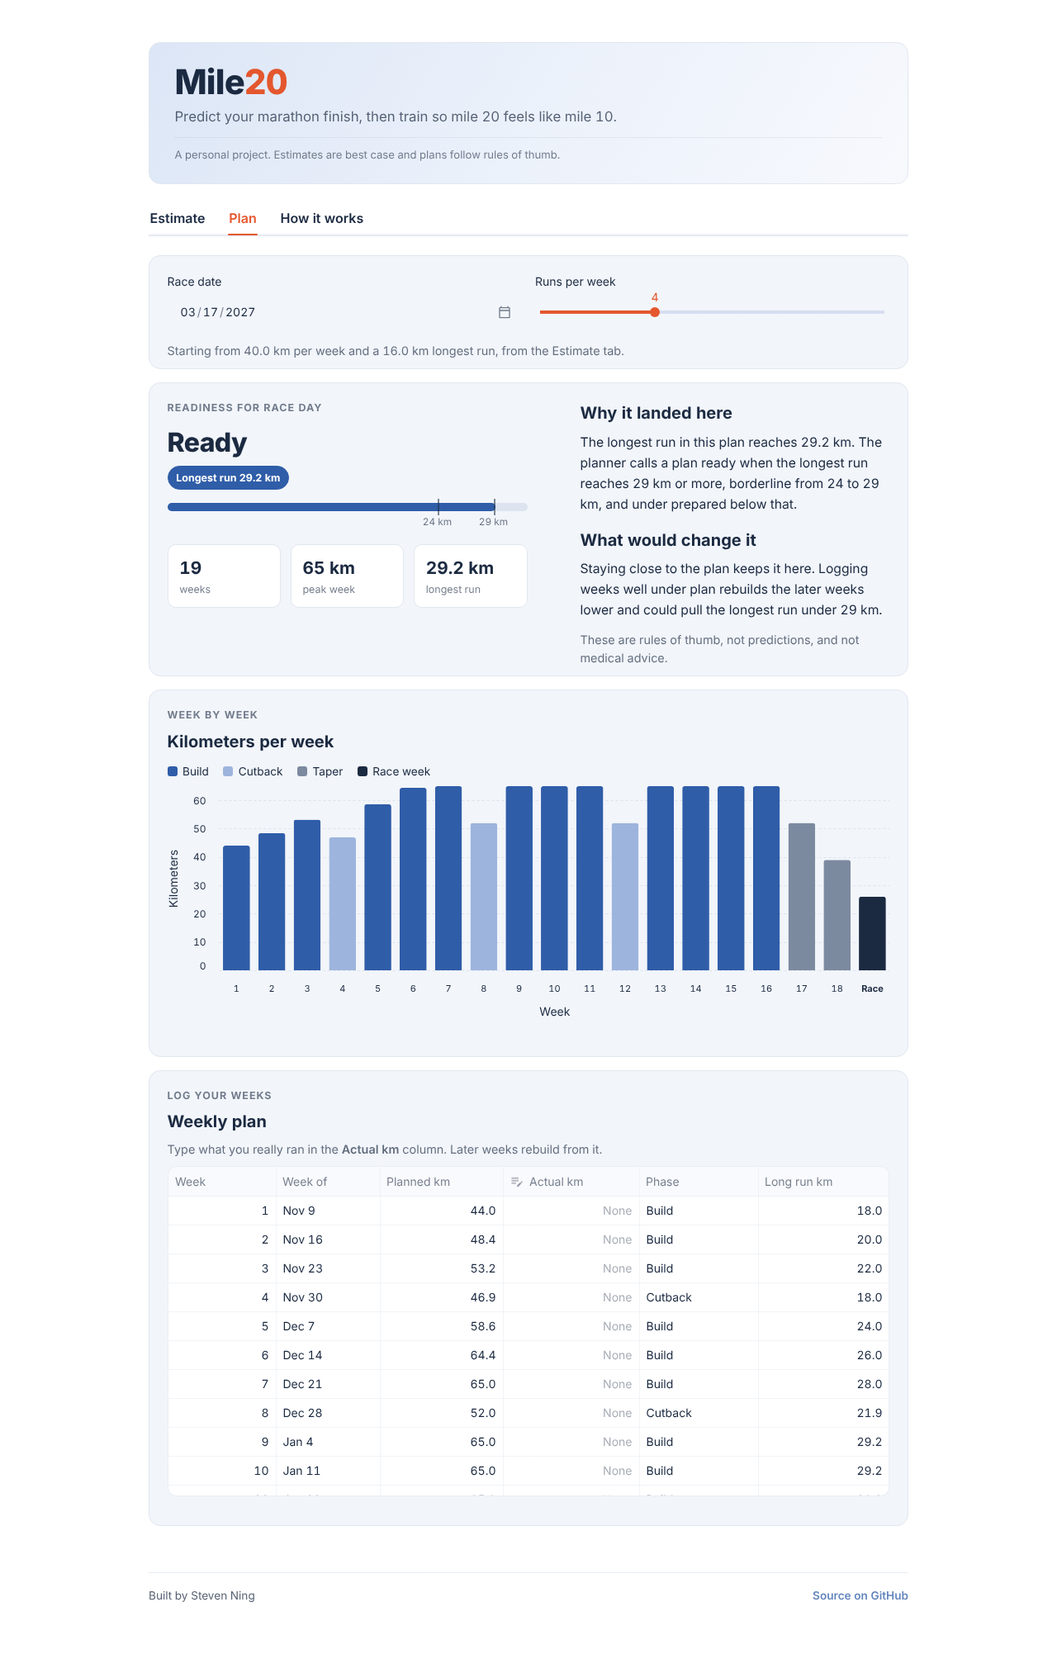
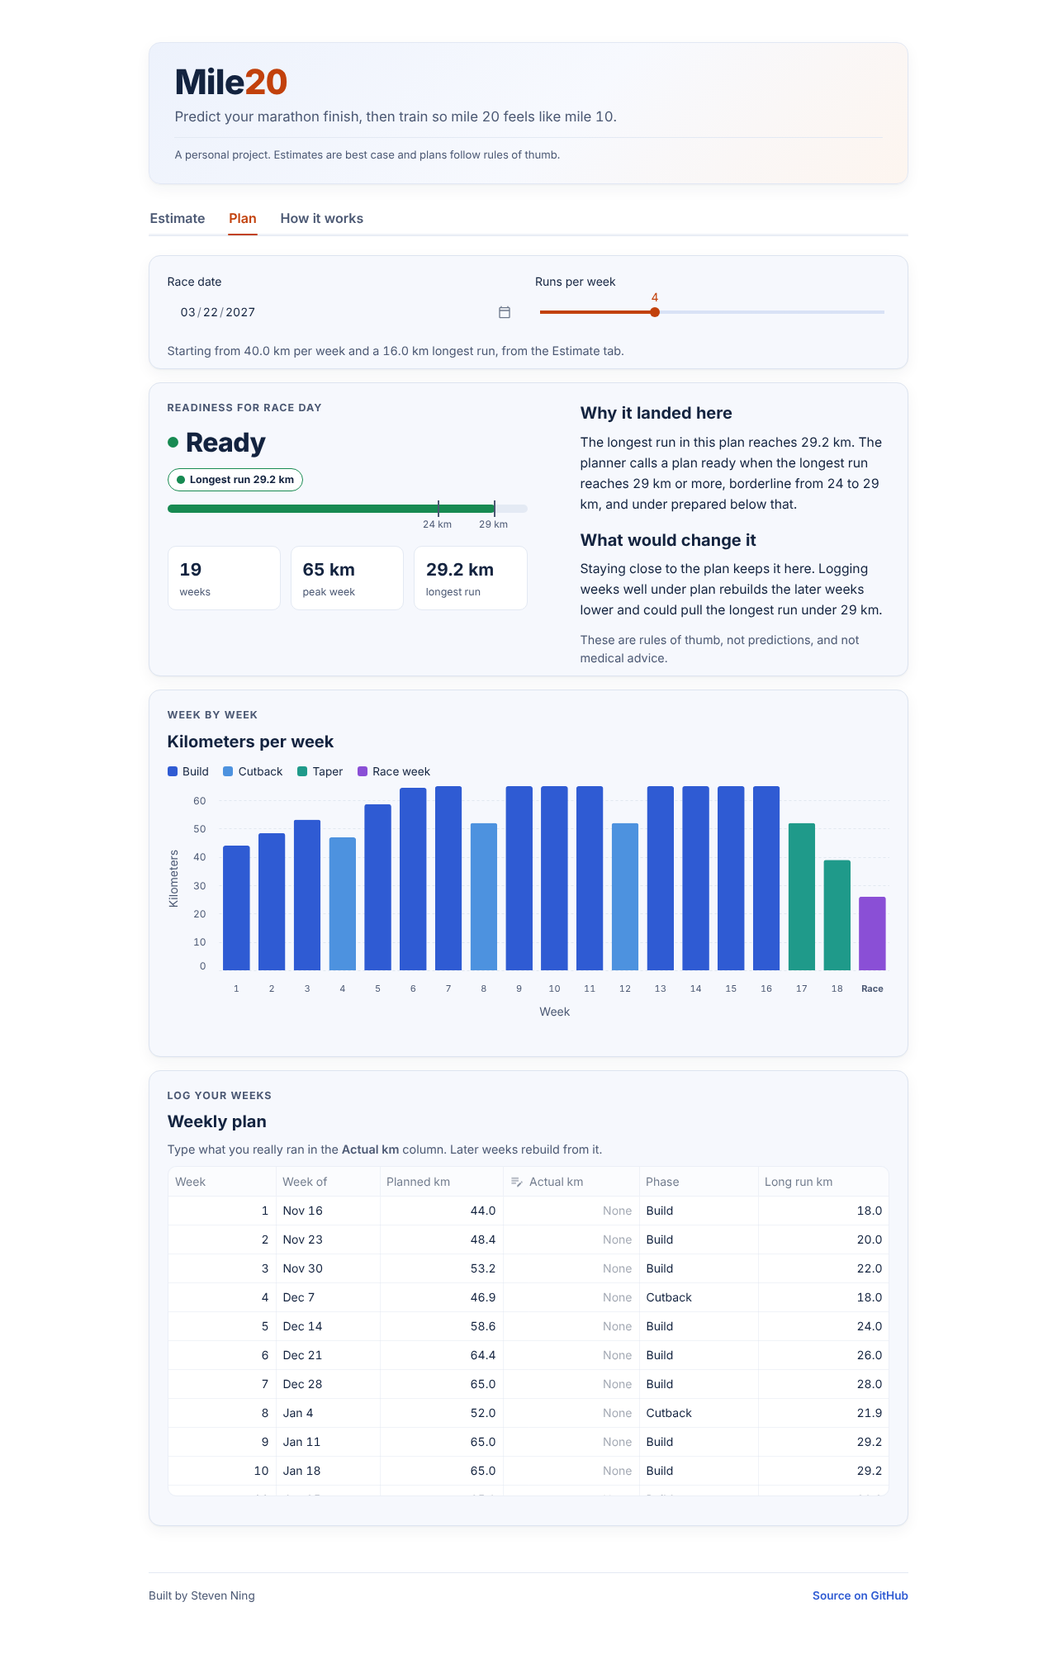
Color redesign: one palette, richer cobalt and ember colors, status and phase colors
Color only. No math, model, planner logic or app behavior changed.

Every color now lives in one PALETTE dictionary at the top of app.py, and the
five theme colors in .streamlit/config.toml match it. Text and button colors
pass WCAG AA (the old white on orange was 3.68:1, now 5.18:1), phase and
readiness colors each have one fixed meaning and were checked for color blind
separation, and the hero, cards, borders, shadows and primary button follow the
palette. Screenshots of both candidate palettes are in docs/screenshots.

Claude-Session: https://claude.ai/code/session_01DypmYEvbK5YYfMocHb6ErS

diff --git a/app.py b/app.py
@@ -39,12 +39,42 @@ SUBLINE = "A personal project. Estimates are best case and plans follow rules of
 FONT = "Inter"
 CARD_RADIUS, INNER_RADIUS = "14px", "10px"
 
-# Palette. Navy for text, one blue for data, one orange accent, light blue grey for cards.
-NAVY, BLUE, ORANGE, CARD = "#1B2A41", "#2F5DA8", "#E4572E", "#F2F5FA"
-# Phase colors, used only on the plan chart and its legend.
+# Palette: every color in the app comes from here. The theme in .streamlit/config.toml repeats five of these
+# (primaryColor = accent, backgroundColor = bg, secondaryBackgroundColor = card, textColor = ink,
+# borderColor = card_border), so keep those in step when you change this dictionary.
+PALETTE = {
+    # Text
+    "ink": "#13233F",          # deep navy for all text and the actual km line
+    "ink_muted": "#4B5873",    # secondary text, 6.7:1 on cards
+    # Data and action
+    "data": "#2F5BD3",         # cobalt for data marks (range band, numbered steps, links)
+    "data_soft": "#A9C0EE",    # light cobalt for quiet edges
+    "accent": "#C2410C",       # ember orange, the one action color (buttons, sliders, selected tab)
+    "accent_hover": "#9A3412",
+    "on_accent": "#FFFFFF",    # text on the accent, 5.2:1
+    # Surfaces
+    "bg": "#FFFFFF",
+    "card": "#F6F8FD",
+    "card_border": "#DDE4F0",
+    "inner_border": "#E3E9F3",
+    "divider": "#E3E9F3",
+    "track": "#E4EAF4",
+    "shadow": "0 1px 2px rgba(19, 35, 63, 0.04), 0 6px 18px rgba(19, 35, 63, 0.05)",
+    "hero": "linear-gradient(135deg, #EDF2FC 0%, #F7F9FE 55%, #FDF5EF 100%)",
+    "hero_border": "#E2E8F4",
+    # Chart furniture
+    "grid": "#DFE5EE",
+    "axis": "#B6C2D6",
+    "original_line": "#7A869C",
+    # One color per plan phase, used by the chart and its legend. Checked for color blind separation in chart order.
+    "phase": {"Build": "#2F5BD3", "Cutback": "#4D92DF", "Taper": "#1F9A8A", "Race week": "#8A4FD6"},
+    # One color per readiness rating. Always shown with its label, never color alone.
+    "status": {"ready": "#178A52", "borderline": "#D0900F", "under prepared": "#B8282E"},
+}
+P = PALETTE
 PHASES = ["Build", "Cutback", "Taper", "Race week"]
 ORDINAL = {2: "second", 3: "third", 4: "fourth", 5: "fifth"}
-PHASE_COLORS = {"Build": BLUE, "Cutback": "#9DB4DD", "Taper": "#7C8AA0", "Race week": NAVY}
+PHASE_COLORS = P["phase"]
 
 st.set_page_config(page_title=f"{APP_NAME} | Marathon finish predictor", page_icon=str(ICON_FILE) if ICON_FILE.exists() else "🏃", layout="wide")
 
@@ -55,104 +85,122 @@ CSS = f"""
 }}
 header[data-testid="stHeader"] {{ background: transparent; height: 0; }}
 .block-container {{ max-width: 1080px; padding-top: 2.2rem; padding-bottom: 4rem; }}
-html, body, [class*="css"] {{ color: {NAVY}; }}
+html, body, [class*="css"] {{ color: {P["ink"]}; }}
 /* Tabular numbers everywhere so times and distances line up */
 body, .stApp, .stApp * {{ font-variant-numeric: tabular-nums; }}
 
 /* Header */
 .m20-header {{ margin: 0 0 1.4rem 0; padding: 1.7rem 1.9rem 1.5rem 1.9rem; border-radius: {CARD_RADIUS};
-  background: linear-gradient(120deg, #DCE6F6 0%, #EAF0FA 45%, #F7F9FD 100%); border: 1px solid #E1E7F0; }}
-.m20-sub {{ font-size: 0.82rem; color: {NAVY}; opacity: 0.6; margin-top: 0.7rem; padding-top: 0.6rem;
-  border-top: 1px solid rgba(27, 42, 65, 0.1); }}
-.m20-logo {{ font-size: 2.6rem; font-weight: 800; letter-spacing: -0.02em; line-height: 1; color: {NAVY}; }}
-.m20-logo span {{ color: {ORANGE}; }}
-.m20-tagline {{ font-size: 1.05rem; color: {NAVY}; opacity: 0.72; margin-top: 0.45rem; }}
+  background: {P["hero"]}; border: 1px solid {P["hero_border"]}; box-shadow: {P["shadow"]}; }}
+.m20-sub {{ font-size: 0.82rem; color: {P["ink_muted"]}; margin-top: 0.7rem; padding-top: 0.6rem;
+  border-top: 1px solid {P["divider"]}; }}
+.m20-logo {{ font-size: 2.6rem; font-weight: 800; letter-spacing: -0.02em; line-height: 1; color: {P["ink"]}; }}
+.m20-logo span {{ color: {P["accent"]}; }}
+.m20-tagline {{ font-size: 1.05rem; color: {P["ink_muted"]}; margin-top: 0.45rem; }}
 
 /* Tabs */
-.stTabs [role="tablist"] {{ gap: 1.6rem; border-bottom: 1px solid #DDE3EE; }}
+.stTabs [role="tablist"] {{ gap: 1.6rem; border-bottom: 1px solid {P["divider"]}; }}
 .stTabs [role="tab"] {{ padding: 0.6rem 0.1rem; transition: color 0.15s ease; }}
-.stTabs [role="tab"]:hover, .stTabs [role="tab"]:hover p {{ color: {BLUE} !important; }}
+.stTabs [role="tab"] p {{ color: {P["ink_muted"]}; }}
+.stTabs [role="tab"]:hover, .stTabs [role="tab"]:hover p {{ color: {P["data"]} !important; }}
+.stTabs [role="tab"][aria-selected="true"] p,
 .stTabs [role="tab"][aria-selected="true"]:hover,
-.stTabs [role="tab"][aria-selected="true"]:hover p {{ color: {ORANGE} !important; }}
+.stTabs [role="tab"][aria-selected="true"]:hover p {{ color: {P["accent"]} !important; }}
 .stTabs [role="tab"] p {{ font-size: 1rem; font-weight: 600; }}
 .stTabs [role="tabpanel"] {{ padding-top: 1.4rem; }}
 
-/* Cards: bordered containers get the light card color */
+/* Cards: bordered containers get the card color, a matching border and a soft shadow */
 [data-testid="stVerticalBlockBorderWrapper"]:has(> div > [data-testid="stVerticalBlock"]),
 div[class*="st-key-card"] {{
-  background: {CARD};
-  border-color: #E1E7F0 !important;
+  background: {P["card"]};
+  border-color: {P["card_border"]} !important;
   border-radius: {CARD_RADIUS} !important;
+  box-shadow: {P["shadow"]};
 }}
-[data-testid="stExpander"] details {{ border-radius: {CARD_RADIUS} !important; border-color: #E1E7F0 !important; }}
+[data-testid="stExpander"] details {{ border-radius: {CARD_RADIUS} !important; border-color: {P["card_border"]} !important;
+  background: {P["bg"]}; }}
 /* Consistent space between stacked cards */
 [data-testid="stVerticalBlock"] {{ row-gap: 1rem; }}
 div[class*="st-key-card"] {{ padding: 1.25rem 1.35rem 1.7rem 1.35rem !important; }}
 
+/* Primary buttons, including the Strava file picker, use the one action color */
+[data-testid="stBaseButton-primary"],
+[data-testid="stFileUploaderDropzone"] button {{
+  background: {P["accent"]} !important; border-color: {P["accent"]} !important; color: {P["on_accent"]} !important; }}
+[data-testid="stBaseButton-primary"]:hover,
+[data-testid="stFileUploaderDropzone"] button:hover {{
+  background: {P["accent_hover"]} !important; border-color: {P["accent_hover"]} !important; }}
+
 /* Type scale */
 .m20-eyebrow {{ font-size: 0.78rem; font-weight: 700; letter-spacing: 0.08em; text-transform: uppercase;
-  color: {NAVY}; opacity: 0.6; margin-bottom: 0.35rem; }}
-.m20-h2 {{ font-size: 1.25rem; font-weight: 700; color: {NAVY}; margin: 0 0 0.4rem 0; }}
-.m20-body {{ font-size: 0.98rem; line-height: 1.6; color: {NAVY}; }}
-.m20-muted {{ font-size: 0.9rem; line-height: 1.5; color: {NAVY}; opacity: 0.68; }}
+  color: {P["ink_muted"]}; margin-bottom: 0.35rem; }}
+.m20-h2 {{ font-size: 1.25rem; font-weight: 700; color: {P["ink"]}; margin: 0 0 0.4rem 0; }}
+.m20-body {{ font-size: 0.98rem; line-height: 1.6; color: {P["ink"]}; }}
+.m20-muted {{ font-size: 0.9rem; line-height: 1.5; color: {P["ink_muted"]}; }}
 
 /* Big estimate */
 .m20-big {{ font-size: clamp(3.6rem, 16vw, 7.2rem); font-weight: 800; letter-spacing: -0.04em; line-height: 0.95;
-  color: {NAVY}; font-variant-numeric: tabular-nums; white-space: nowrap; margin: 0.3rem 0 0.6rem 0; }}
-.m20-pill {{ display: inline-block; font-size: 0.78rem; font-weight: 700; padding: 0.2rem 0.6rem; border-radius: 999px;
-  background: #FFFFFF; border: 1px solid #D5DDEA; color: {NAVY}; vertical-align: middle; }}
-.m20-pill.accent {{ background: {ORANGE}; border-color: {ORANGE}; color: #FFFFFF; }}
-.m20-pill.blue {{ background: {BLUE}; border-color: {BLUE}; color: #FFFFFF; }}
+  color: {P["ink"]}; font-variant-numeric: tabular-nums; white-space: nowrap; margin: 0.3rem 0 0.6rem 0; }}
+.m20-pill {{ display: inline-flex; align-items: center; gap: 0.4rem; font-size: 0.78rem; font-weight: 700;
+  padding: 0.2rem 0.65rem; border-radius: 999px; background: {P["bg"]}; border: 1px solid {P["card_border"]};
+  color: {P["ink"]}; vertical-align: middle; }}
+.m20-pill.accent {{ background: {P["accent"]}; border-color: {P["accent"]}; color: {P["on_accent"]}; }}
+.m20-pill.status {{ border-color: var(--status); }}
+.m20-dot {{ display: inline-block; width: 0.6rem; height: 0.6rem; border-radius: 50%; background: var(--status); }}
 
 /* Range band */
 .m20-band {{ margin: 1.4rem 0 0.4rem 0; }}
-.m20-track {{ position: relative; height: 14px; border-radius: 999px; background: #DDE4EF; }}
-.m20-fill {{ position: absolute; top: 0; bottom: 0; border-radius: 999px; background: {BLUE}; opacity: 0.85; }}
+.m20-track {{ position: relative; height: 14px; border-radius: 999px; background: {P["track"]}; }}
+.m20-fill {{ position: absolute; top: 0; bottom: 0; border-radius: 999px; background: {P["data"]}; }}
 .m20-marker {{ position: absolute; top: -6px; width: 4px; height: 26px; margin-left: -2px; border-radius: 2px;
-  background: {ORANGE}; box-shadow: 0 0 0 3px {CARD}; }}
+  background: {P["accent"]}; box-shadow: 0 0 0 3px {P["card"]}; }}
 .m20-ticks {{ position: relative; height: 3rem; margin-top: 0.45rem; }}
 .m20-tick {{ position: absolute; transform: translateX(-50%); text-align: center; white-space: nowrap; }}
-.m20-tick b {{ display: block; font-size: 0.98rem; font-variant-numeric: tabular-nums; color: {NAVY}; }}
-.m20-tick small {{ font-size: 0.74rem; color: {NAVY}; opacity: 0.6; }}
+.m20-tick b {{ display: block; font-size: 0.98rem; font-variant-numeric: tabular-nums; color: {P["ink"]}; }}
+.m20-tick small {{ font-size: 0.74rem; color: {P["ink_muted"]}; }}
 
 /* Calm notes */
-.m20-note {{ display: flex; gap: 0.7rem; background: #FFFFFF; border: 1px solid #E1E7F0; border-left: 3px solid #9DB4DD;
-  border-radius: {INNER_RADIUS}; padding: 0.75rem 0.95rem; margin: 0.6rem 0; font-size: 0.92rem; line-height: 1.5; color: {NAVY}; }}
-.m20-note .i {{ flex: 0 0 auto; width: 1.25rem; height: 1.25rem; border-radius: 50%; background: {CARD};
-  border: 1px solid #C9D4E5; font-size: 0.75rem; font-weight: 700; text-align: center; line-height: 1.15rem; }}
+.m20-note {{ display: flex; gap: 0.7rem; background: {P["bg"]}; border: 1px solid {P["card_border"]};
+  border-left: 3px solid {P["data_soft"]}; border-radius: {INNER_RADIUS}; padding: 0.75rem 0.95rem; margin: 0.6rem 0;
+  font-size: 0.92rem; line-height: 1.5; color: {P["ink"]}; }}
+.m20-note .i {{ flex: 0 0 auto; width: 1.25rem; height: 1.25rem; border-radius: 50%; background: {P["card"]};
+  border: 1px solid {P["data_soft"]}; color: {P["data"]}; font-size: 0.75rem; font-weight: 700; text-align: center;
+  line-height: 1.15rem; }}
 
 /* Stat row */
 .m20-stats {{ display: grid; grid-template-columns: repeat(3, minmax(0, 1fr)); gap: 0.75rem; margin-top: 1rem; }}
-.m20-stat {{ background: #FFFFFF; border: 1px solid #E1E7F0; border-radius: {INNER_RADIUS}; padding: 0.7rem 0.85rem; }}
-.m20-stat .v {{ font-size: 1.3rem; font-weight: 700; white-space: nowrap; font-variant-numeric: tabular-nums; color: {NAVY}; }}
-.m20-stat .l {{ font-size: 0.78rem; white-space: nowrap; overflow: hidden; text-overflow: ellipsis; color: {NAVY}; opacity: 0.62; }}
+.m20-stat {{ background: {P["bg"]}; border: 1px solid {P["inner_border"]}; border-radius: {INNER_RADIUS}; padding: 0.7rem 0.85rem; }}
+.m20-stat .v {{ font-size: 1.3rem; font-weight: 700; white-space: nowrap; font-variant-numeric: tabular-nums; color: {P["ink"]}; }}
+.m20-stat .l {{ font-size: 0.78rem; white-space: nowrap; overflow: hidden; text-overflow: ellipsis; color: {P["ink_muted"]}; }}
 
-/* Readiness meter */
-.m20-status {{ font-size: 2rem; font-weight: 800; letter-spacing: -0.02em; color: {NAVY}; margin: 0.1rem 0 0.2rem 0; }}
-.m20-meter {{ position: relative; height: 10px; border-radius: 999px; background: #DDE4EF; margin: 1rem 0 0.3rem 0; }}
-.m20-meter .f {{ position: absolute; left: 0; top: 0; bottom: 0; border-radius: 999px; background: {BLUE}; }}
-.m20-meter .t {{ position: absolute; top: -5px; width: 2px; height: 20px; background: {NAVY}; opacity: 0.55; }}
-.m20-meter-labels {{ position: relative; height: 1.2rem; font-size: 0.74rem; color: {NAVY}; opacity: 0.65; }}
+/* Readiness meter: the fill wears the rating's color, the label stays in ink */
+.m20-status {{ display: flex; align-items: center; gap: 0.55rem; font-size: 2rem; font-weight: 800;
+  letter-spacing: -0.02em; color: {P["ink"]}; margin: 0.1rem 0 0.35rem 0; }}
+.m20-status .m20-dot {{ width: 0.85rem; height: 0.85rem; }}
+.m20-meter {{ position: relative; height: 10px; border-radius: 999px; background: {P["track"]}; margin: 1rem 0 0.3rem 0; }}
+.m20-meter .f {{ position: absolute; left: 0; top: 0; bottom: 0; border-radius: 999px; background: var(--status); }}
+.m20-meter .t {{ position: absolute; top: -5px; width: 2px; height: 20px; background: {P["ink_muted"]}; }}
+.m20-meter-labels {{ position: relative; height: 1.2rem; font-size: 0.74rem; color: {P["ink_muted"]}; }}
 .m20-meter-labels span {{ position: absolute; transform: translateX(-50%); white-space: nowrap; }}
 
 /* Legend */
-.m20-legend {{ display: flex; flex-wrap: wrap; gap: 0.4rem 1.1rem; font-size: 0.85rem; color: {NAVY}; margin: 0.2rem 0 0.4rem 0; }}
+.m20-legend {{ display: flex; flex-wrap: wrap; gap: 0.4rem 1.1rem; font-size: 0.85rem; color: {P["ink"]}; margin: 0.2rem 0 0.4rem 0; }}
 .m20-legend span {{ display: inline-flex; align-items: center; gap: 0.4rem; }}
 .m20-legend i {{ display: inline-block; width: 12px; height: 12px; border-radius: 3px; }}
 .m20-legend i.line {{ height: 3px; width: 18px; border-radius: 2px; }}
-.m20-legend i.dash {{ height: 0; width: 18px; border-top: 2px dashed {NAVY}; opacity: 0.55; border-radius: 0; }}
+.m20-legend i.dash {{ height: 0; width: 18px; border-top: 2px dashed {P["original_line"]}; border-radius: 0; }}
 
 /* How it works */
 .m20-rule {{ display: flex; gap: 0.9rem; align-items: flex-start; margin: 0.9rem 0; }}
-.m20-rule .n {{ flex: 0 0 auto; width: 2rem; height: 2rem; border-radius: 50%; background: {BLUE}; color: #FFFFFF;
+.m20-rule .n {{ flex: 0 0 auto; width: 2rem; height: 2rem; border-radius: 50%; background: {P["data"]}; color: {P["on_accent"]};
   font-weight: 700; text-align: center; line-height: 2rem; }}
-.m20-rule b {{ display: block; font-size: 1rem; color: {NAVY}; }}
+.m20-rule b {{ display: block; font-size: 1rem; color: {P["ink"]}; }}
 
 /* Footer */
-.m20-footer {{ margin-top: 2.5rem; padding-top: 1.1rem; border-top: 1px solid #E1E7F0; display: flex;
-  flex-wrap: wrap; justify-content: space-between; gap: 0.4rem 1rem; font-size: 0.85rem; color: {NAVY}; opacity: 0.75; }}
-.m20-footer a {{ color: {BLUE}; text-decoration: none; font-weight: 600; }}
-.m20-footer a:hover {{ color: {ORANGE}; }}
+.m20-footer {{ margin-top: 2.5rem; padding-top: 1.1rem; border-top: 1px solid {P["divider"]}; display: flex;
+  flex-wrap: wrap; justify-content: space-between; gap: 0.4rem 1rem; font-size: 0.85rem; color: {P["ink_muted"]}; }}
+.m20-footer a {{ color: {P["data"]}; text-decoration: none; font-weight: 600; }}
+.m20-footer a:hover {{ color: {P["accent"]}; }}
 
 @media (max-width: 640px) {{
   .block-container {{ padding-left: 1rem; padding-right: 1rem; padding-top: 1.4rem; }}
@@ -264,7 +312,7 @@ def stat_row(items: list[tuple[str, str]]) -> str:
 def legend(with_actual: bool, with_original: bool) -> str:
     parts = [f'<span><i style="background:{PHASE_COLORS[p]}"></i>{p}</span>' for p in PHASES]
     if with_actual:
-        parts.append(f'<span><i class="line" style="background:{ORANGE}"></i>Your actual km</span>')
+        parts.append(f'<span><i class="line" style="background:{P["ink"]}"></i>Your actual km</span>')
     if with_original:
         parts.append('<span><i class="dash"></i>Original plan</span>')
     return f'<div class="m20-legend">{"".join(parts)}</div>'
@@ -277,13 +325,14 @@ def plan_chart(adjusted: pd.DataFrame, original: pd.DataFrame, show_original: bo
     race_week = int(race.iloc[0]) if len(race) else -1
     is_race = f"datum.value == {race_week}"
     axis_x = alt.X("week:O", title="Week", axis=alt.Axis(
-        labelAngle=0, labelColor=NAVY, titleColor=NAVY, domainColor="#C9D4E5", tickColor="#C9D4E5", labelFontSize=11,
+        labelAngle=0, labelColor=P["ink_muted"], titleColor=P["ink_muted"], domainColor=P["axis"], tickColor=P["axis"],
+        labelFontSize=11,
         labelExpr=f"{is_race} ? 'Race' : datum.label",
         labelFontWeight=alt.ExprRef(f"{is_race} ? 'bold' : 'normal'")))
     bars = alt.Chart(data).mark_bar(cornerRadiusTopLeft=3, cornerRadiusTopRight=3).encode(
         x=axis_x,
         y=alt.Y("planned_km:Q", title="Kilometers",
-                axis=alt.Axis(labelColor=NAVY, titleColor=NAVY, gridColor="#D9E1EC", gridDash=[3, 3],
+                axis=alt.Axis(labelColor=P["ink_muted"], titleColor=P["ink_muted"], gridColor=P["grid"], gridDash=[3, 3],
                               gridOpacity=0.9, domain=False, ticks=False, tickCount=5)),
         color=alt.Color("phase:N", scale=alt.Scale(domain=PHASES, range=[PHASE_COLORS[p] for p in PHASES]), legend=None),
         tooltip=[alt.Tooltip("week:O", title="Week"), alt.Tooltip("Week of:N"), alt.Tooltip("phase:N", title="Phase"),
@@ -293,7 +342,7 @@ def plan_chart(adjusted: pd.DataFrame, original: pd.DataFrame, show_original: bo
     layers = [bars]
     if show_original:
         orig = original[["week", "planned_km"]].rename(columns={"planned_km": "original_km"})
-        layers.append(alt.Chart(orig).mark_line(color=NAVY, opacity=0.5, strokeDash=[5, 4], strokeWidth=1.6).encode(
+        layers.append(alt.Chart(orig).mark_line(color=P["original_line"], strokeDash=[5, 4], strokeWidth=1.6).encode(
             x=axis_x, y="original_km:Q",
             tooltip=[alt.Tooltip("week:O", title="Week"), alt.Tooltip("original_km:Q", title="Original plan km", format=".1f")]))
     if "actual_km" in data and data["actual_km"].notna().any():
@@ -301,8 +350,9 @@ def plan_chart(adjusted: pd.DataFrame, original: pd.DataFrame, show_original: bo
         actual = alt.Chart(logged).encode(
             x=axis_x, y="actual_km:Q",
             tooltip=[alt.Tooltip("week:O", title="Week"), alt.Tooltip("actual_km:Q", title="Actual km", format=".1f")])
-        layers += [actual.mark_line(color=ORANGE, strokeWidth=2.5),
-                   actual.mark_point(color=ORANGE, filled=True, size=70, opacity=1)]
+        # Ink line with white ringed points: separates from every phase color by lightness, not hue
+        layers += [actual.mark_line(color=P["ink"], strokeWidth=2.5),
+                   actual.mark_point(color=P["ink"], filled=True, size=80, opacity=1, stroke=P["bg"], strokeWidth=2)]
     return (alt.layer(*layers).properties(height=300)
             .configure_view(strokeWidth=0).configure(background="transparent", font=FONT))
 
@@ -450,11 +500,12 @@ with tab_est:
             html('<div class="m20-eyebrow">From your file</div><div class="m20-h2">Your last 12 weeks</div>')
             weekly = weekly_summary(runs, as_of=TODAY, weeks=12)
             weekly["Week of"] = weekly["week_start"].map(short_date)
-            hist = alt.Chart(weekly).mark_bar(color=BLUE, cornerRadiusTopLeft=3, cornerRadiusTopRight=3).encode(
-                x=alt.X("Week of:N", sort=None, title=None, axis=alt.Axis(labelAngle=0, labelColor=NAVY,
-                                                                          labelOverlap=True, domainColor="#C9D4E5")),
-                y=alt.Y("km:Q", title="Kilometers", axis=alt.Axis(labelColor=NAVY, titleColor=NAVY,
-                                                                   gridColor="#E6EBF3", domain=False, tickCount=5)),
+            hist = alt.Chart(weekly).mark_bar(color=P["data"], cornerRadiusTopLeft=3, cornerRadiusTopRight=3).encode(
+                x=alt.X("Week of:N", sort=None, title=None, axis=alt.Axis(labelAngle=0, labelColor=P["ink_muted"],
+                                                                          labelOverlap=True, domainColor=P["axis"])),
+                y=alt.Y("km:Q", title="Kilometers", axis=alt.Axis(labelColor=P["ink_muted"], titleColor=P["ink_muted"],
+                                                                   gridColor=P["grid"], gridDash=[3, 3], domain=False,
+                                                                   tickCount=5)),
                 tooltip=["Week of", alt.Tooltip("km:Q", format=".1f")],
             ).properties(height=220).configure_view(strokeWidth=0).configure(background="transparent", font=FONT)
             st.altair_chart(hist, width="stretch")
@@ -534,7 +585,7 @@ with tab_plan:
 
         with top:
             label = {"ready": "Ready", "borderline": "Borderline", "under prepared": "Under prepared"}[ready_now["status"]]
-            pill = {"ready": "blue", "borderline": "", "under prepared": "accent"}[ready_now["status"]]
+            status_color = P["status"][ready_now["status"]]
             why, change = readiness_copy(ready_now, len(adj), missed)
             scale_max = max(LONG_RUN_CAP_KM, ready_now["peak_long_run_km"])
             fill = min(ready_now["peak_long_run_km"] / scale_max * 100, 100)
@@ -542,13 +593,15 @@ with tab_plan:
             with st.container(border=True, key="card_ready"):
                 left, right = st.columns([1.15, 1], gap="large")
                 with left:
-                    html('<div class="m20-eyebrow">Readiness for race day</div>'
-                         f'<div class="m20-status">{label}</div>'
-                         f'<span class="m20-pill {pill}">Longest run {ready_now["peak_long_run_km"]:g} km</span>'
+                    html(f'<div style="--status:{status_color}">'
+                         '<div class="m20-eyebrow">Readiness for race day</div>'
+                         f'<div class="m20-status"><span class="m20-dot"></span>{label}</div>'
+                         f'<span class="m20-pill status"><span class="m20-dot"></span>'
+                         f'Longest run {ready_now["peak_long_run_km"]:g} km</span>'
                          f'<div class="m20-meter"><div class="f" style="width:{fill:.1f}%"></div>'
                          f'<div class="t" style="left:{b_at:.1f}%"></div><div class="t" style="left:{r_at:.1f}%"></div></div>'
                          f'<div class="m20-meter-labels"><span style="left:{b_at:.1f}%">{BORDERLINE_LONG_KM:g} km</span>'
-                         f'<span style="left:{r_at:.1f}%">{READY_LONG_KM:g} km</span></div>')
+                         f'<span style="left:{r_at:.1f}%">{READY_LONG_KM:g} km</span></div></div>')
                     html(stat_row([
                         (f"{len(adj)}", "weeks"),
                         (f"{ready_now['peak_week_km']:g} km", "peak week"),
